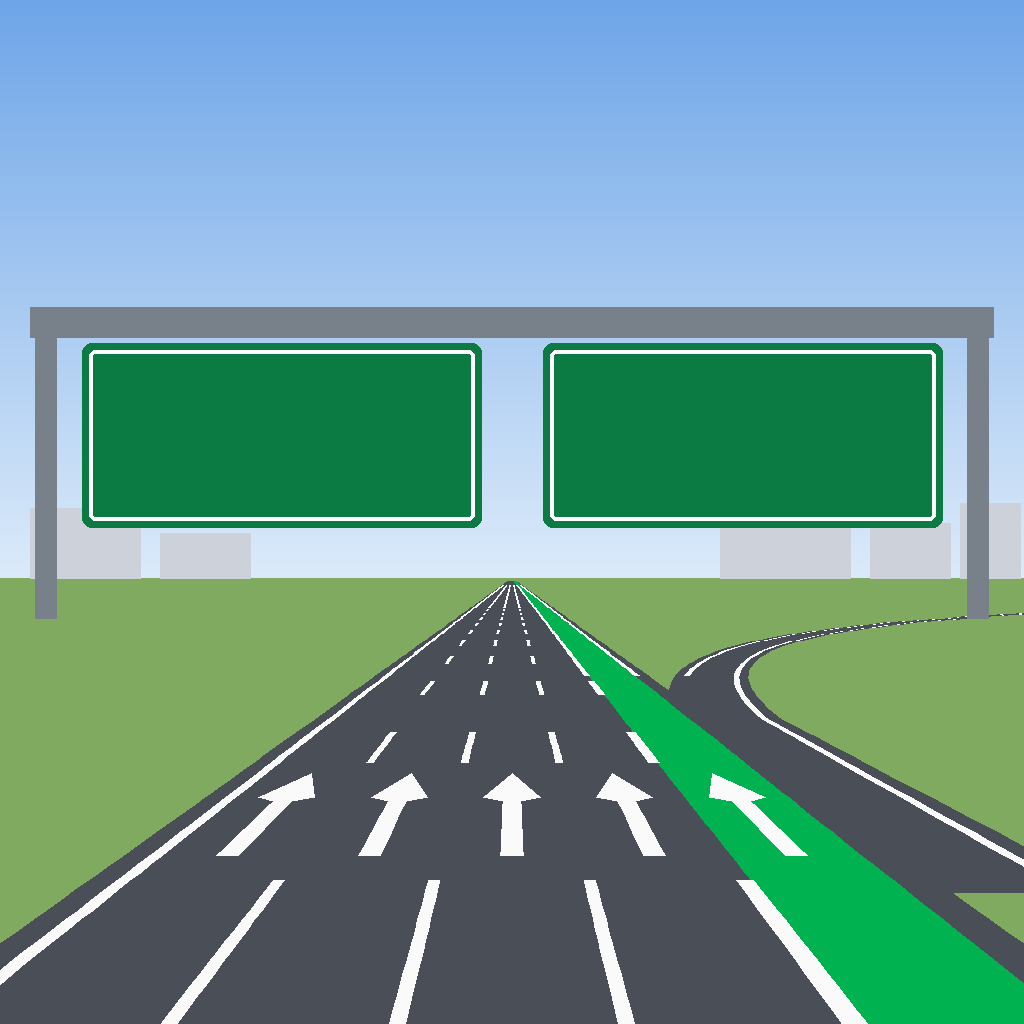
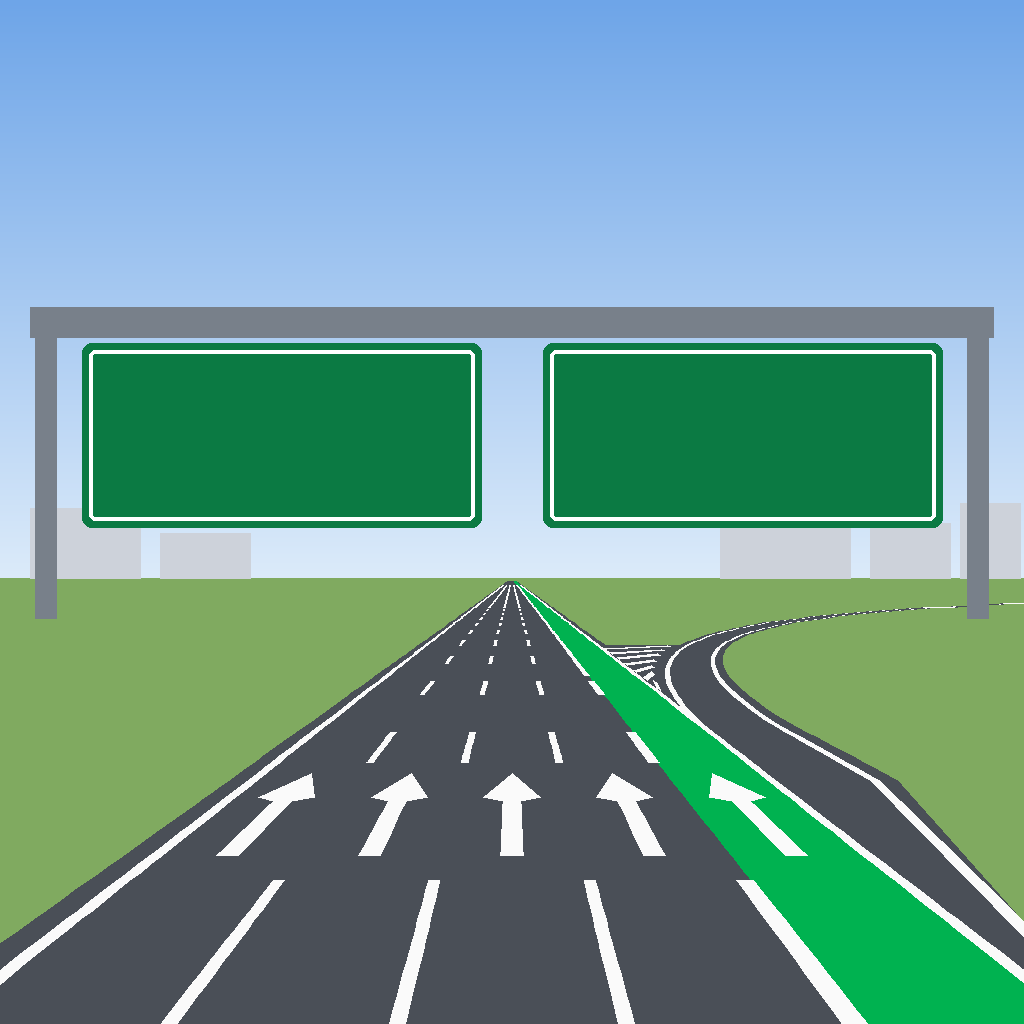
성남IC side-ramp sketch closer to Naver (driver: '이런 식으로 좀 묘사 네이버지도 처럼'); also redeploys Pages for v263
On Naver 성남IC 330 m the green 2B lane is the rightmost lane in the foreground and runs straight to the horizon; the 2A ramp only
widens out beside it in the middle of the picture, splits off at a hatched gore and curves right. The x41s/x42s sketches now do that:
solid white edge on the green lane from the bottom, the side ramp tapers in at 14 m (no step), a paved gore triangle with white
diagonal hatching up to a 9 m split (grass beyond, not stripes across the field), gentler right curve. Prompt text says the same.
The driver regenerates: --icons jx2_x41s_day,jx2_x41s_night,jx2_x42s_day,jx2_x42s_night --models flare26e,sunburst26e --per 2
(16 images, about $0.13).

The v263 Pages run failed at 'Deploy to GitHub Pages' (build was fine); this push redeploys it.

diff --git a/tools/jx_scene2.py b/tools/jx_scene2.py
@@ -55,7 +55,8 @@ EXIT_BEND = {0: [], 1: [RAMP], 2: [RAMP, (0.40, 0.020, ZS2)], 3: [(0.9, 0.04, 20
 # v263 (운전자 '성남IC 는 네이버지도를 봐 — 네이버대로'): 네이버 성남IC 330m 는 우리 출구 차로(2B)가 지평선까지 곧게 가고, 그 오른쪽에서
 #   먼저 갈라지는 다른 출구(2A 판교)가 빗금 고어를 지나 휘어 나간다. 옆 연결로 그림은 경로 출구가 휘지 않고(1s), 옆 연결로(3s)가
 #   출구 차로 바로 오른쪽에 붙어 있다가 고어(Z 20m)에서 갈라져 휜다
-SIDE_BEND = {0: [], 1: [], 3: [(0.20, 0.022, 20.0)]}
+SIDE_BEND = {0: [], 1: [], 3: [(0.08, 0.014, 19.0)]}
+SIDE_Z = 14.0   # 옆 연결로가 출구 차로 오른쪽 가장자리에서 생기는 곳 (그 앞은 출구 차로 오른쪽이 길 가장자리 — 네이버처럼)
 
 
 def _exit(T, E, go_exit=True, lz=8.0, split=None):
@@ -75,8 +76,9 @@ def _exit(T, E, go_exit=True, lz=8.0, split=None):
         lanes += [(b + i * LW, b + (i + 1) * LW, 1) for i in range(E)]
         sh['go'] = (1,) if go_exit else (0,)
         if split == 'side':
-            x = b + E * LW   # 출구 차로 바로 오른쪽 (고어 전에는 붙어 있다)
-            lanes.append((x, x + LW, 3, 9.0))   # 앞쪽 차로 수·글자에 넣지 않는다 — 고어(20m)에서 오른쪽으로 갈라진다
+            x = b + E * LW   # 출구 차로 바로 오른쪽 (그림 가운데쯤에서 생겨 빗금 고어를 지나 오른쪽으로 휜다)
+            lanes.append((x, x + LW, 3, SIDE_Z))   # 앞쪽 차로 수·글자에 넣지 않는다
+            sh['side'] = (x, SIDE_Z)
             sh['bend'] = SIDE_BEND
     sh['lanes'] = lanes
     return sh
@@ -183,6 +185,30 @@ def draw_base(name):
     fg = [g for g in groups.values() if g[2] <= Z0 + 0.01]
     allx0 = min(g[0] for g in fg); allx1 = max(g[1] for g in fg)
     d.polygon(strip(allx0 - 0.8, allx1 + 0.8, 0, sh, Z0, zs0), fill=asphalt)   # 고어 앞은 한 판 (모든 차로가 곧게 나란히)
+    if sh.get('side'):
+        # v263 (운전자: 네이버 성남IC 처럼 — 다른 출구가 우리 출구 차로 오른쪽에서 빗금 고어를 지나 갈라진다)
+        #   고어 = 출구 차로 오른쪽 가장자리와 옆 연결로 왼쪽 가장자리 사이 삼각형 (벌어짐이 GORE_W 가 될 때까지만). 길 바닥 + 흰 빗금, 그 뒤는 풀밭
+        xs, z0s = sh['side']
+        GORE_W = 9.0
+        zg = z0s
+        while zg < 200 and shift(zg, 3, sh) < GORE_W:
+            zg += 0.5
+        Zs = [z for z in zs() if z0s < z < zg] + [zg]
+        tri = [proj(xs, z) for z in [z0s] + Zs] + [proj(xs + shift(z, 3, sh), z) for z in Zs[::-1]]
+        d.polygon(tri, fill=asphalt)
+        z = z0s + 4.0
+        while z < zg - 1.0:
+            g = shift(z, 3, sh)
+            if g > 0.7:
+                a0, a1 = xs + 0.3, xs + g - 0.3
+                d.polygon([proj(a0, z), proj(a1, z + 1.8), proj(a1, z + 2.6), proj(a0, z + 0.8)], fill=white)
+            z += 2.4
+        # 옆 연결로 앞머리: 출구 차로 어깨에서 비스듬히 넓어진다 (계단처럼 툭 생기지 않게)
+        zt = z0s - 7.0
+        d.polygon([proj(xs + 0.8, zt), proj(xs + LW + 0.8, z0s), proj(xs + 0.8, z0s)], fill=asphalt)
+        d.polygon([proj(xs + 0.65, zt), proj(xs + 0.97, zt), proj(xs + LW + 0.16, z0s), proj(xs + LW - 0.16, z0s)], fill=white)
+        lane_line(xs, 0, sh, False, d, white, 0.16, Z0, zg)   # 출구 차로 오른쪽 가장자리 (맨 앞부터 고어 끝까지)
+        lane_line(xs, 3, sh, False, d, white, 0.16, z0s, ZS + 1)   # 고어 오른쪽 = 옆 연결로 왼쪽 가장자리
     go = sh['go']
     for ln in sh['lanes']:
         x0, x1, s = ln[:3]

diff --git a/tools/gen_icons_atlas.py b/tools/gen_icons_atlas.py
@@ -775,9 +775,9 @@ JX2_EDIT = ('Redraw image 1 as a finished junction view for the guidance panel o
             'no watermark. ')
 # v263 (운전자 '성남IC 는 네이버지도대로'): 경로 출구 차로는 지평선까지 곧게, 그 오른쪽 다른 출구가 빗금 고어에서 갈라져 휜다
 _SIDE = (' IMPORTANT for this view: the green exit lane does NOT bend; it runs perfectly straight all the way to the horizon, parallel to the '
-         'through lanes. Directly to the right of the green lane there is one more grey lane (a different exit): it runs alongside the green '
-         'lane, then splits off at a white chevron-hatched gore in the middle distance and curves away to the right, exactly as in the '
-         'sketch. That grey ramp stays grey.')
+         'through lanes. In the foreground the green lane is the rightmost lane, with a solid white edge line on its right. Only in the middle of '
+         'the picture does one more grey lane (a different exit) widen out next to the right edge of the green lane; it splits off at a white '
+         'chevron-hatched gore and curves away to the right, exactly as in the sketch. That grey ramp stays grey.')
 JX2_LANES_TXT = {
     'x31': 'the road has exactly 4 lanes: 3 lanes go straight on the left and 1 lane (the green route) exits to the right far ahead.',
     'x41': 'the road has exactly 5 lanes: 4 lanes go straight on the left and 1 lane (the green route) exits to the right far ahead.',
